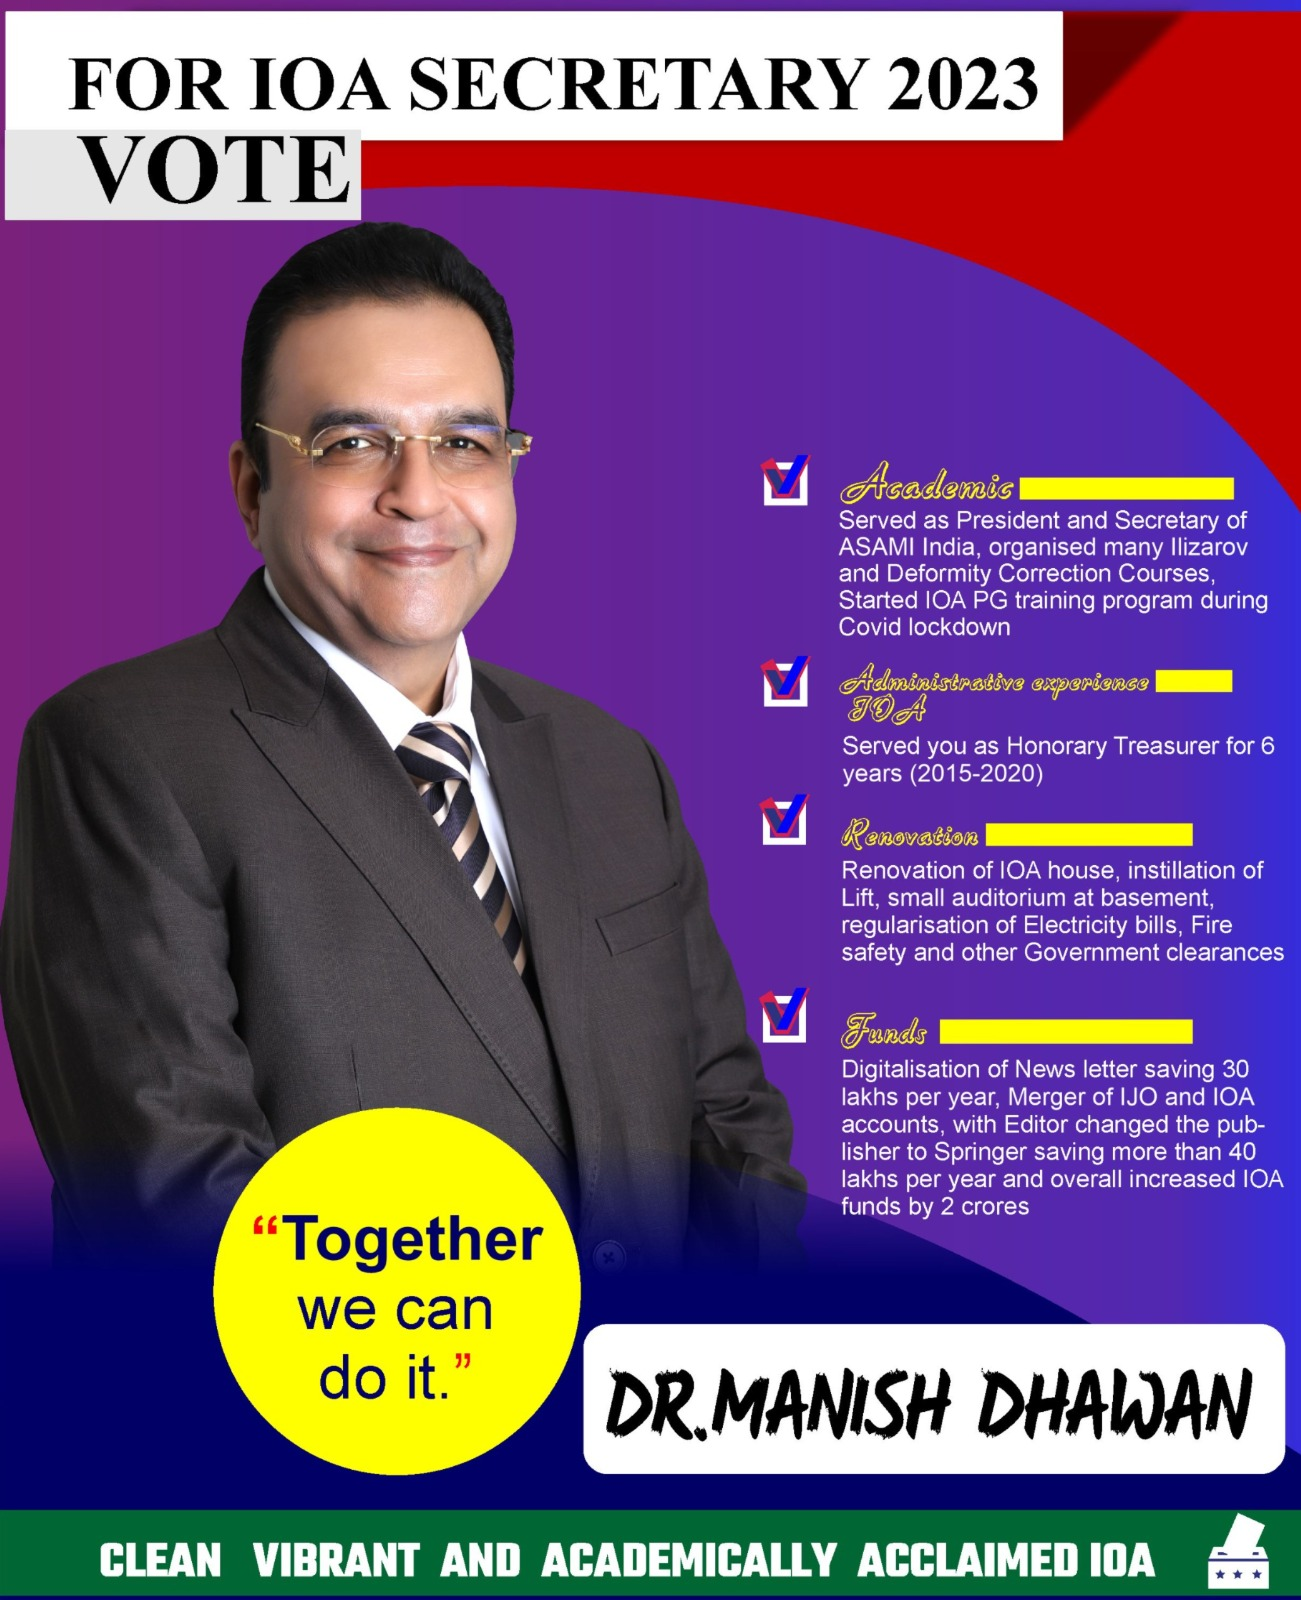
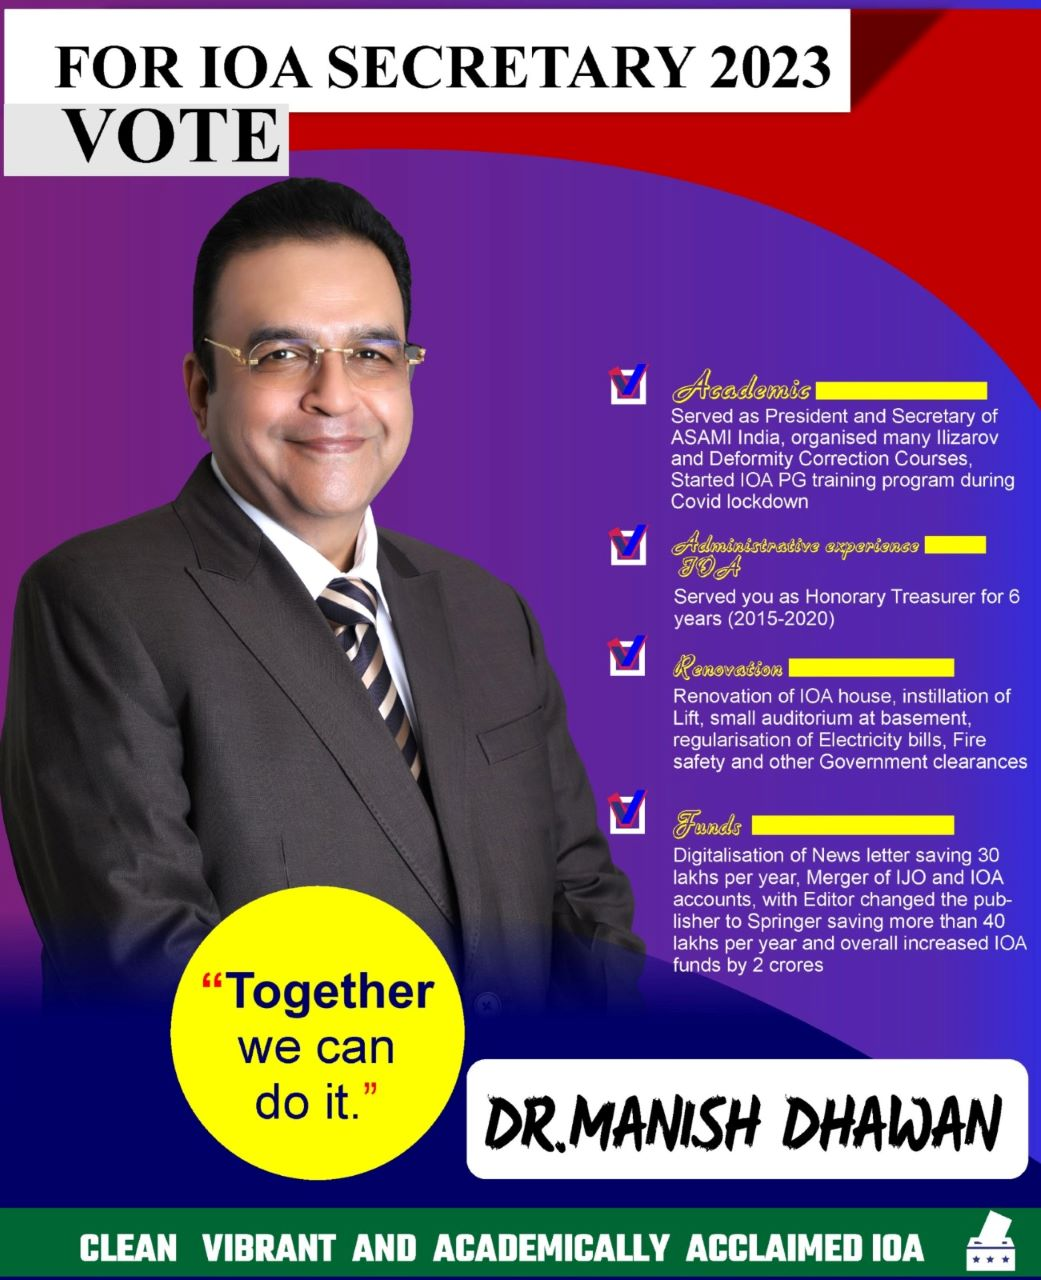
Emial Template

diff --git a/Important-Emails/VeryImportant.html b/Important-Emails/VeryImportant.html
@@ -81,6 +81,17 @@
                 </td>
             </tr>
             <!-- ============= Support Video Ended ==============  -->
+
+            <!-- ============= Support Poster Started ==============  -->
+            
+            <tr>
+                <td  colspan = "2">
+                    <a href="https://youtu.be/JNITBY8bo6o?si=_nCWal1qoudiatxi">
+                        <img src="https://github.com/techiedharam/Email-Template-html/blob/master/asset/vote_for_Dr_Manish_Dhawan.png?raw=true" alt="" width="100%">                
+                    </a>
+                </td>
+            </tr>
+            <!-- ============= Support Poster Ended ==============  -->
             
             <!-- ============ Footer Footer Started =========== -->
             <tr>
